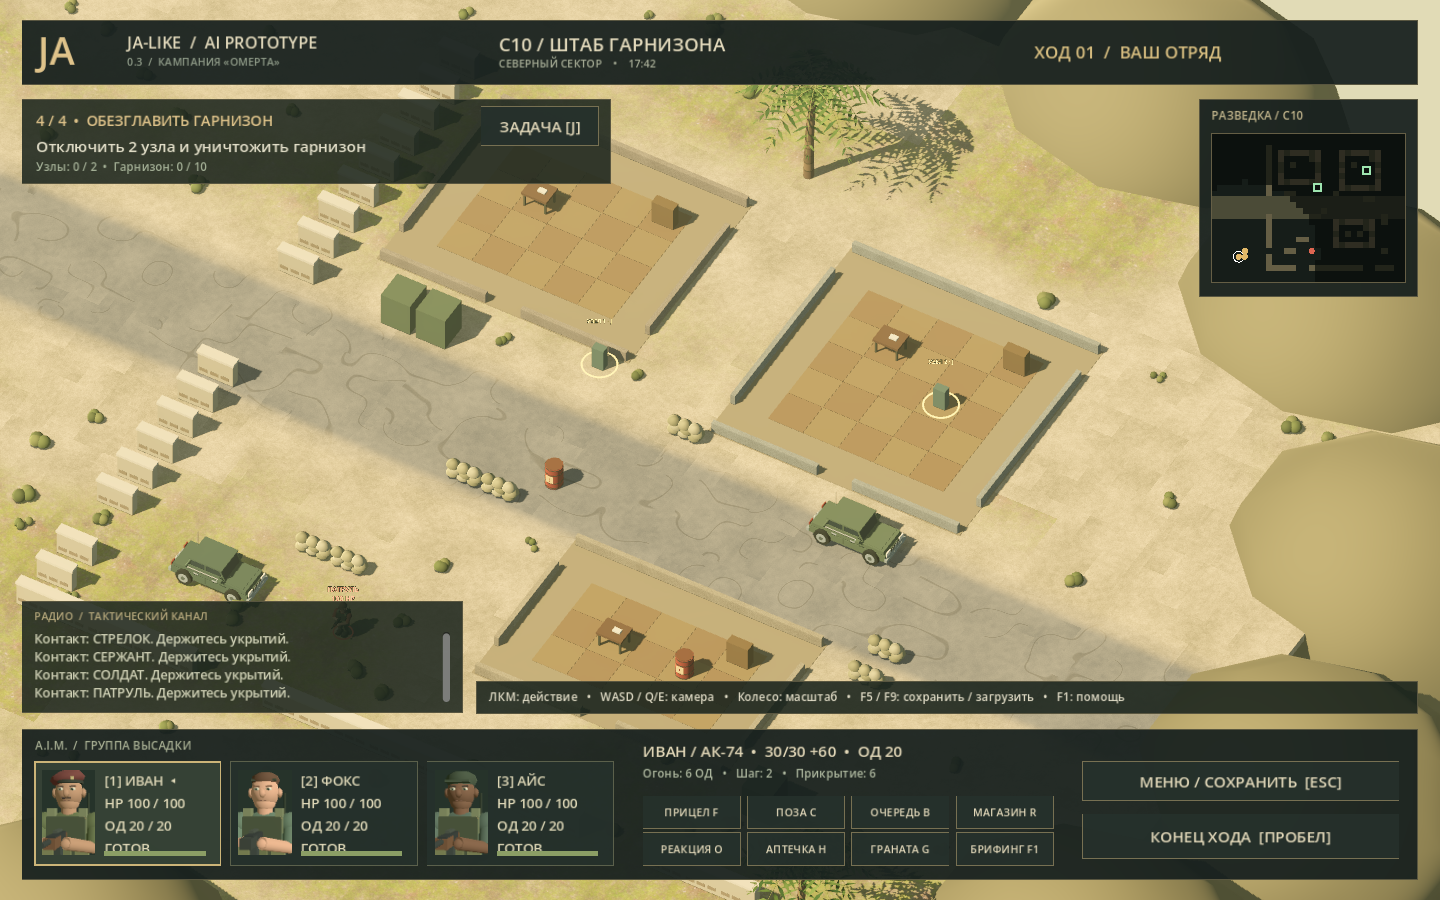
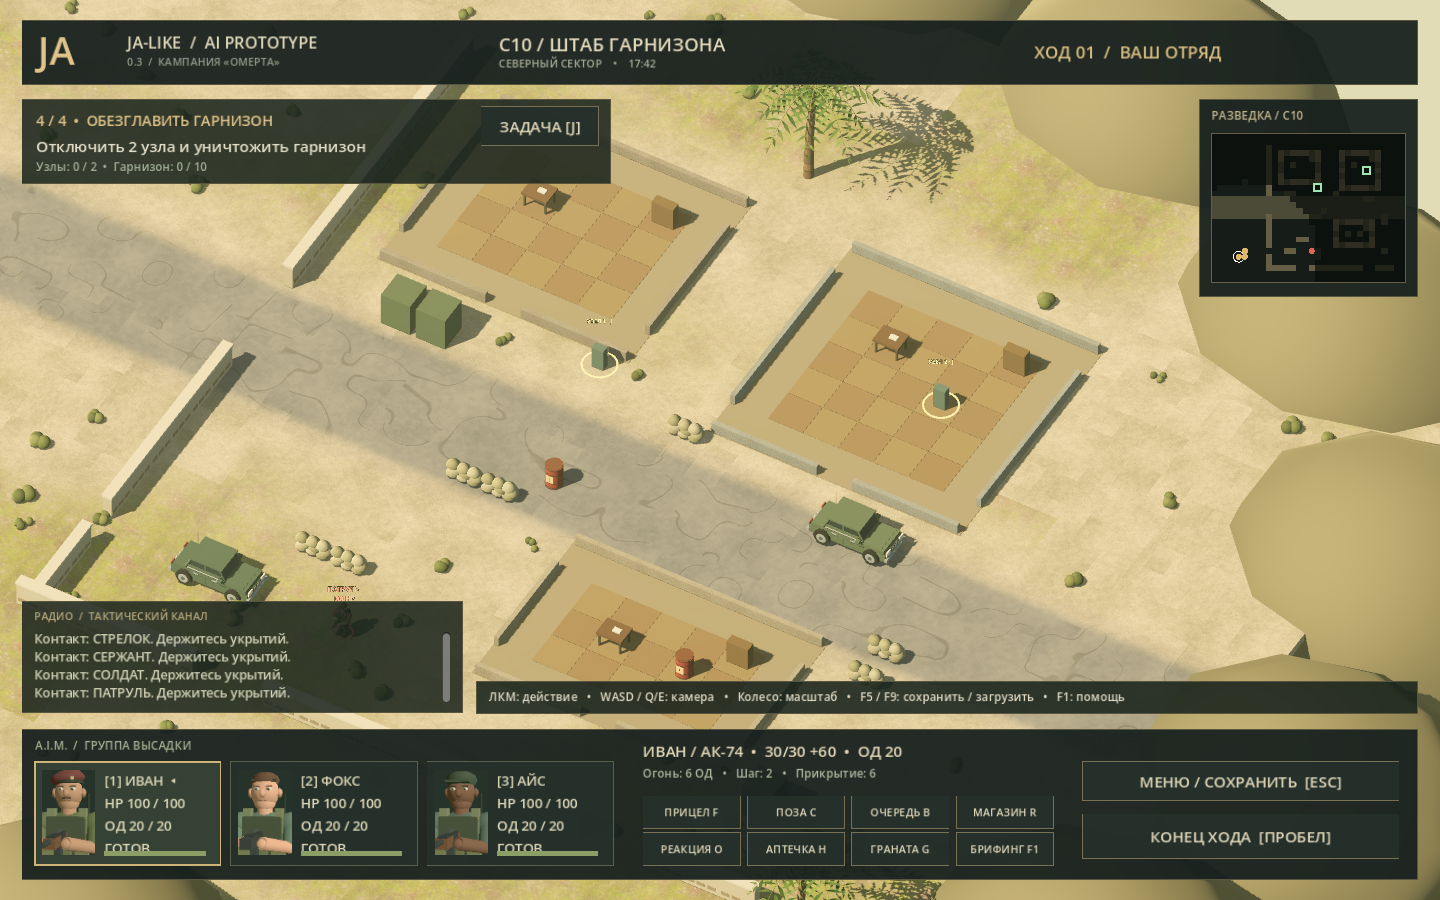
Fix fence orientation and join headquarters perimeter corner

Changed region(s): [[0.0, 0.3733, 0.1875, 0.6533], [0.1875, 0.1867, 0.2812, 0.3111], [0.2812, 0.0933, 0.3438, 0.1244]]

diff --git a/scripts/verify-release.py b/scripts/verify-release.py
@@ -8,7 +8,7 @@ import subprocess
 import sys
 
 root = Path(__file__).resolve().parent.parent
-archive = Path(sys.argv[1]) if len(sys.argv) > 1 else root / "build/JA-like-AI-Prototype-0.3.0-Windows-x64.zip"
+archive = Path(sys.argv[1]) if len(sys.argv) > 1 else root / "build/JA-like-AI-Prototype-0.3.1-Windows-x64.zip"
 destination = root / ".runtime" / ("release-verify-" + datetime.now().strftime("%Y%m%d-%H%M%S"))
 destination.mkdir(parents=True)
 with ZipFile(archive) as bundle:

diff --git a/scripts/package-release.py b/scripts/package-release.py
@@ -4,7 +4,7 @@ from zipfile import ZipFile, ZIP_DEFLATED
 import hashlib
 
 root = Path(__file__).resolve().parent.parent
-version = "0.3.0"
+version = "0.3.1"
 folder = f"JA-like-AI-Prototype-{version}-Windows-x64"
 archive = root / "build" / f"{folder}.zip"
 files = [root / name for name in ("README.md", "START.cmd", "START-OPENGL.cmd", "DEMO.cmd", "launch.ps1")]

diff --git a/README.md b/README.md
@@ -6,6 +6,8 @@
 
 **Опубликован [релиз v0.3.0](https://github.com/Kpoji4er/ja-like-ai-prototype/releases/tag/v0.3.0):** четыре разные карты с разными задачами. Windows ZIP — 97,9 MiB, SHA-256 приложен. Публичное скачивание без авторизации и совпадение контрольной суммы проверены.
 
+**Исправление v0.3.1:** боковые секции заборов повёрнуты вдоль периметра, угол штаба соединён. Проходы и сохранения совместимы с v0.3.0.
+
 ![Реальный кадр игры](docs/preview.png)
 
 **Кампания «Омерта»: четыре сектора по порядку.** Иван, Фокс и Айс начинают с 20 ОД. После победы нажмите «Следующая миссия»: отряд полностью восстанавливает здоровье и снаряжение, включая выбывших бойцов.
@@ -146,6 +148,7 @@
 | 15.10 02:41:09 | 15.10 02:51:25 | 10 мин 15 с | Кампания: четыре последовательные миссии с разными задачами. Реализованы четыре разные карты и задачи: патруль, спасение, оборона, штурм. Пройдены проверки доступности целей, переходов, сохранения и восстановления геометрии; боевой прогон на каждой карте прошёл без нарушений состояния. |
 | 15.10 02:51:25 | 15.10 02:54:34 | 3 мин 08 с | Проверка и публикация кампании v0.3.0. Проверки основной игры, четырёх карт, целей, переходов, миграции сохранений, UI и чистой распаковки прошли. Подготовлены реальные кадры всех секторов, README и QA. Windows ZIP — около 98 MiB; осталось отправить исходники и релиз. |
 | 15.10 02:55:03 | 15.10 02:55:54 | 0 мин 51 с | Публикация и проверка публичного релиза v0.3.0. Релиз v0.3.0 опубликован: Windows ZIP 97,9 MiB и SHA-256. Оба файла скачаны без авторизации (HTTP 200), контрольные суммы совпали. Исходники и журнал времени доступны публично. |
+| 15.10 03:04:12 | 15.10 03:05:19 | 1 мин 06 с | Исправление поворота заборов и угла периметра. Поворот боковых секций и стык угла исправлены; проверены реальные кадры и тесты кампании. Подготовлено исправление v0.3.1 с совместимыми сохранениями. |
 <!-- WORKLOG_ROWS_END -->
 
 **Текущий этап:** нет активного таймера; завершённые этапы приведены выше.

diff --git a/docs/CHANGELOG.md b/docs/CHANGELOG.md
@@ -1,5 +1,9 @@
 # Изменения
 
+## v0.3.1 — 15.10.2026
+
+Исправлено направление боковых секций забора штаба и стены в Омерте. Добавлен стык в углу периметра. Проходы и данные карты не изменены; сохранения v0.3 совместимы. Проверены реальные кадры и тесты кампании.
+
 ## v0.3.0 — 15.10.2026
 
 - Четыре последовательные миссии на разных картах: A9 блокпост, B9 Сан-Мигель, B10 радиостанция, C10 штаб.
